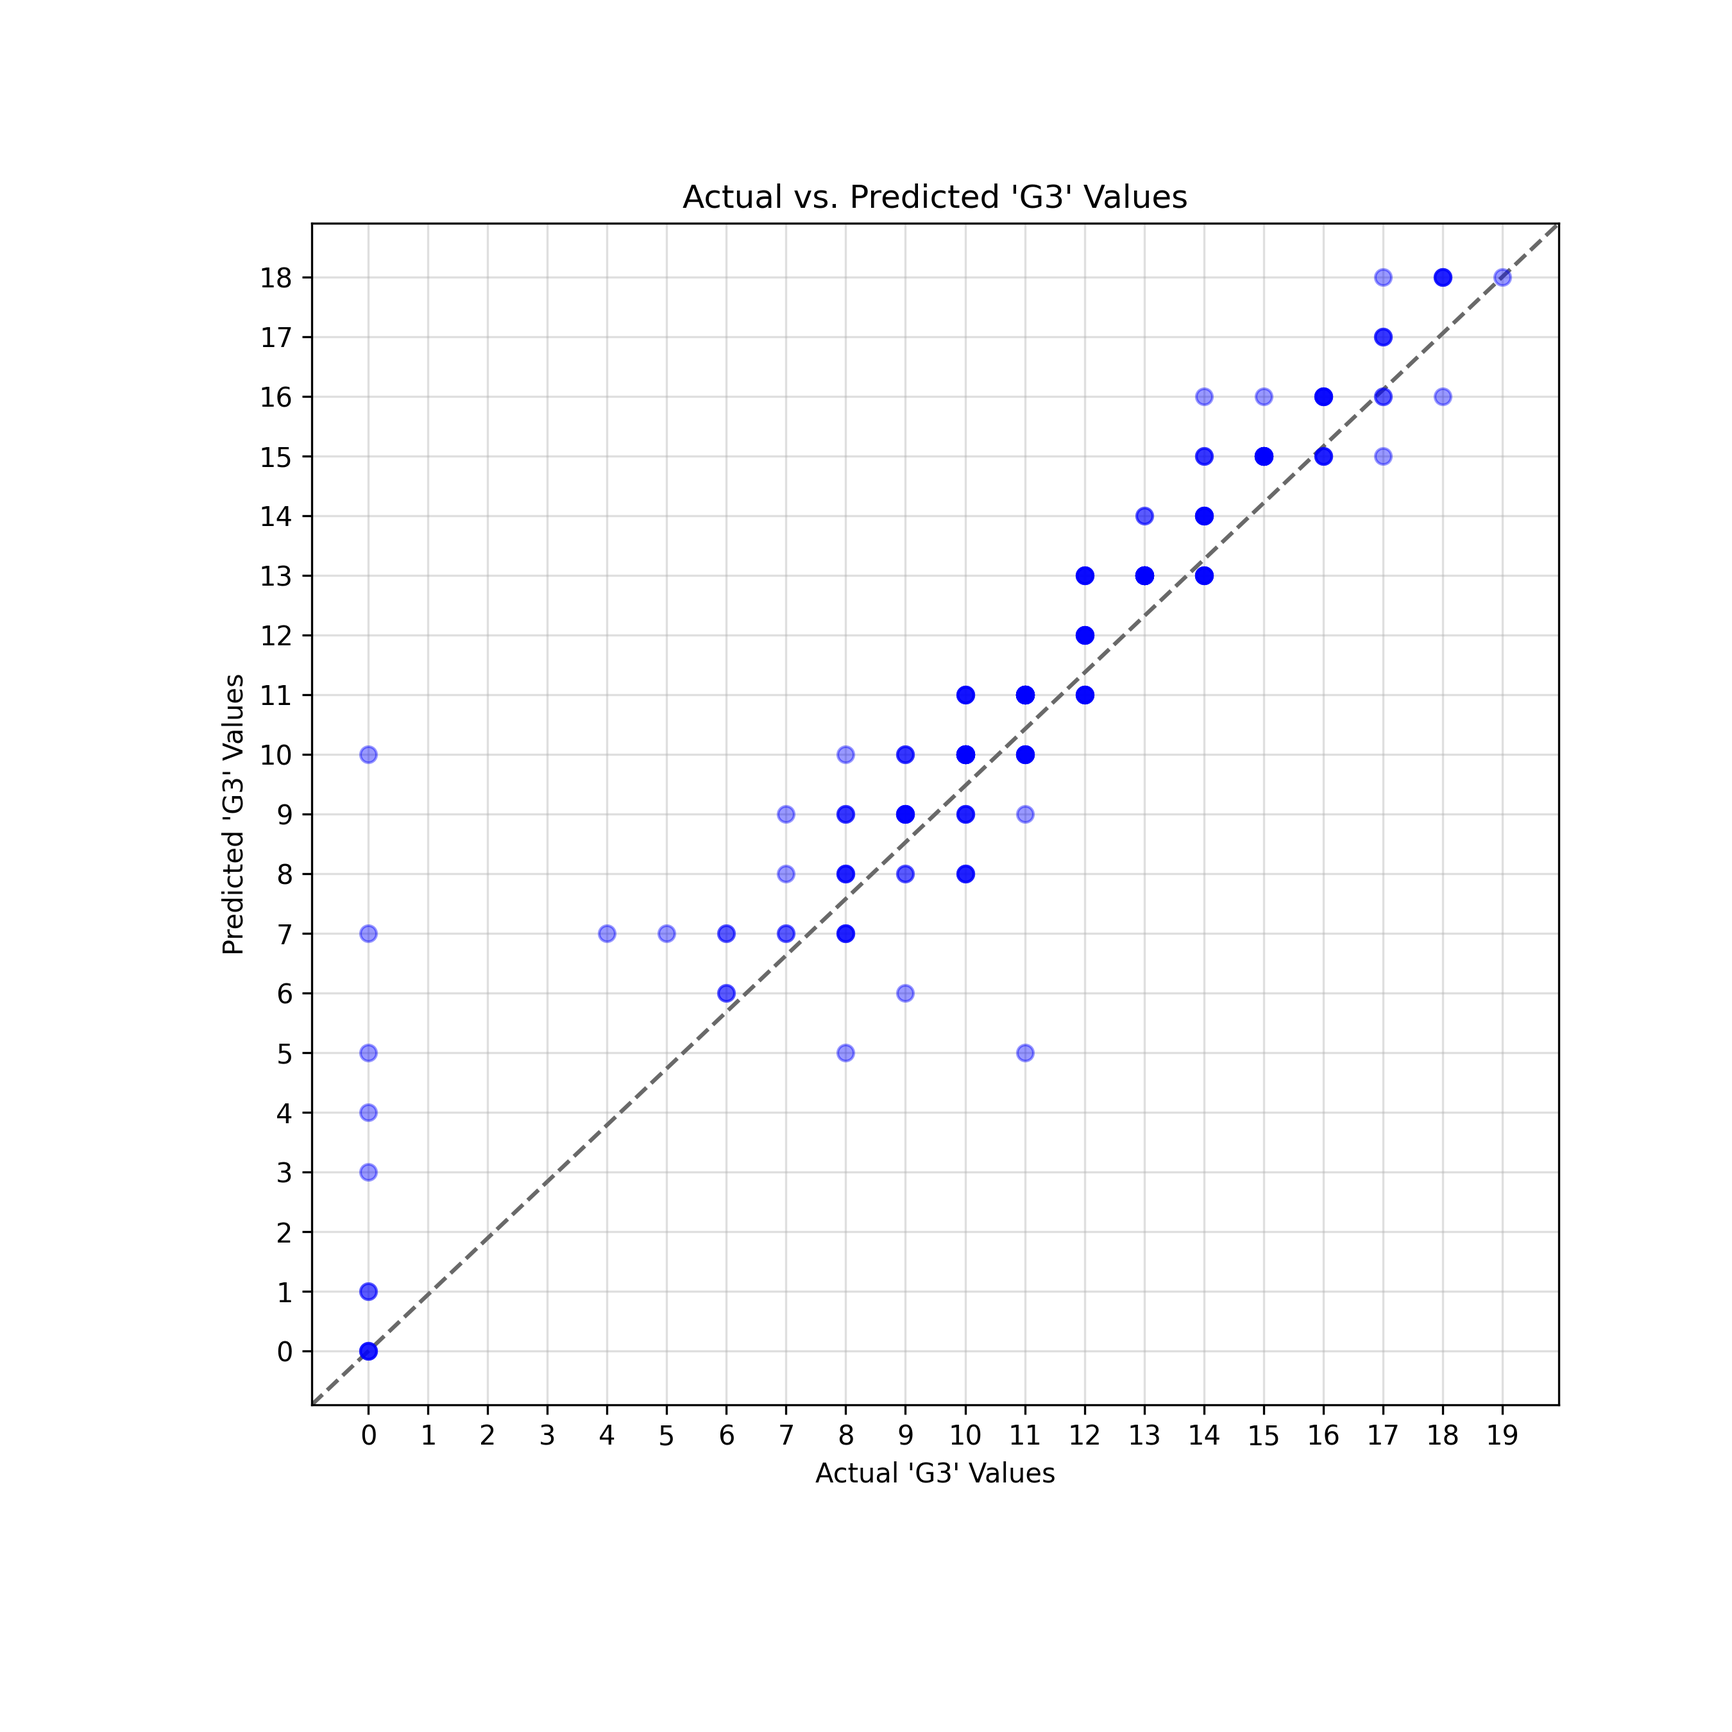
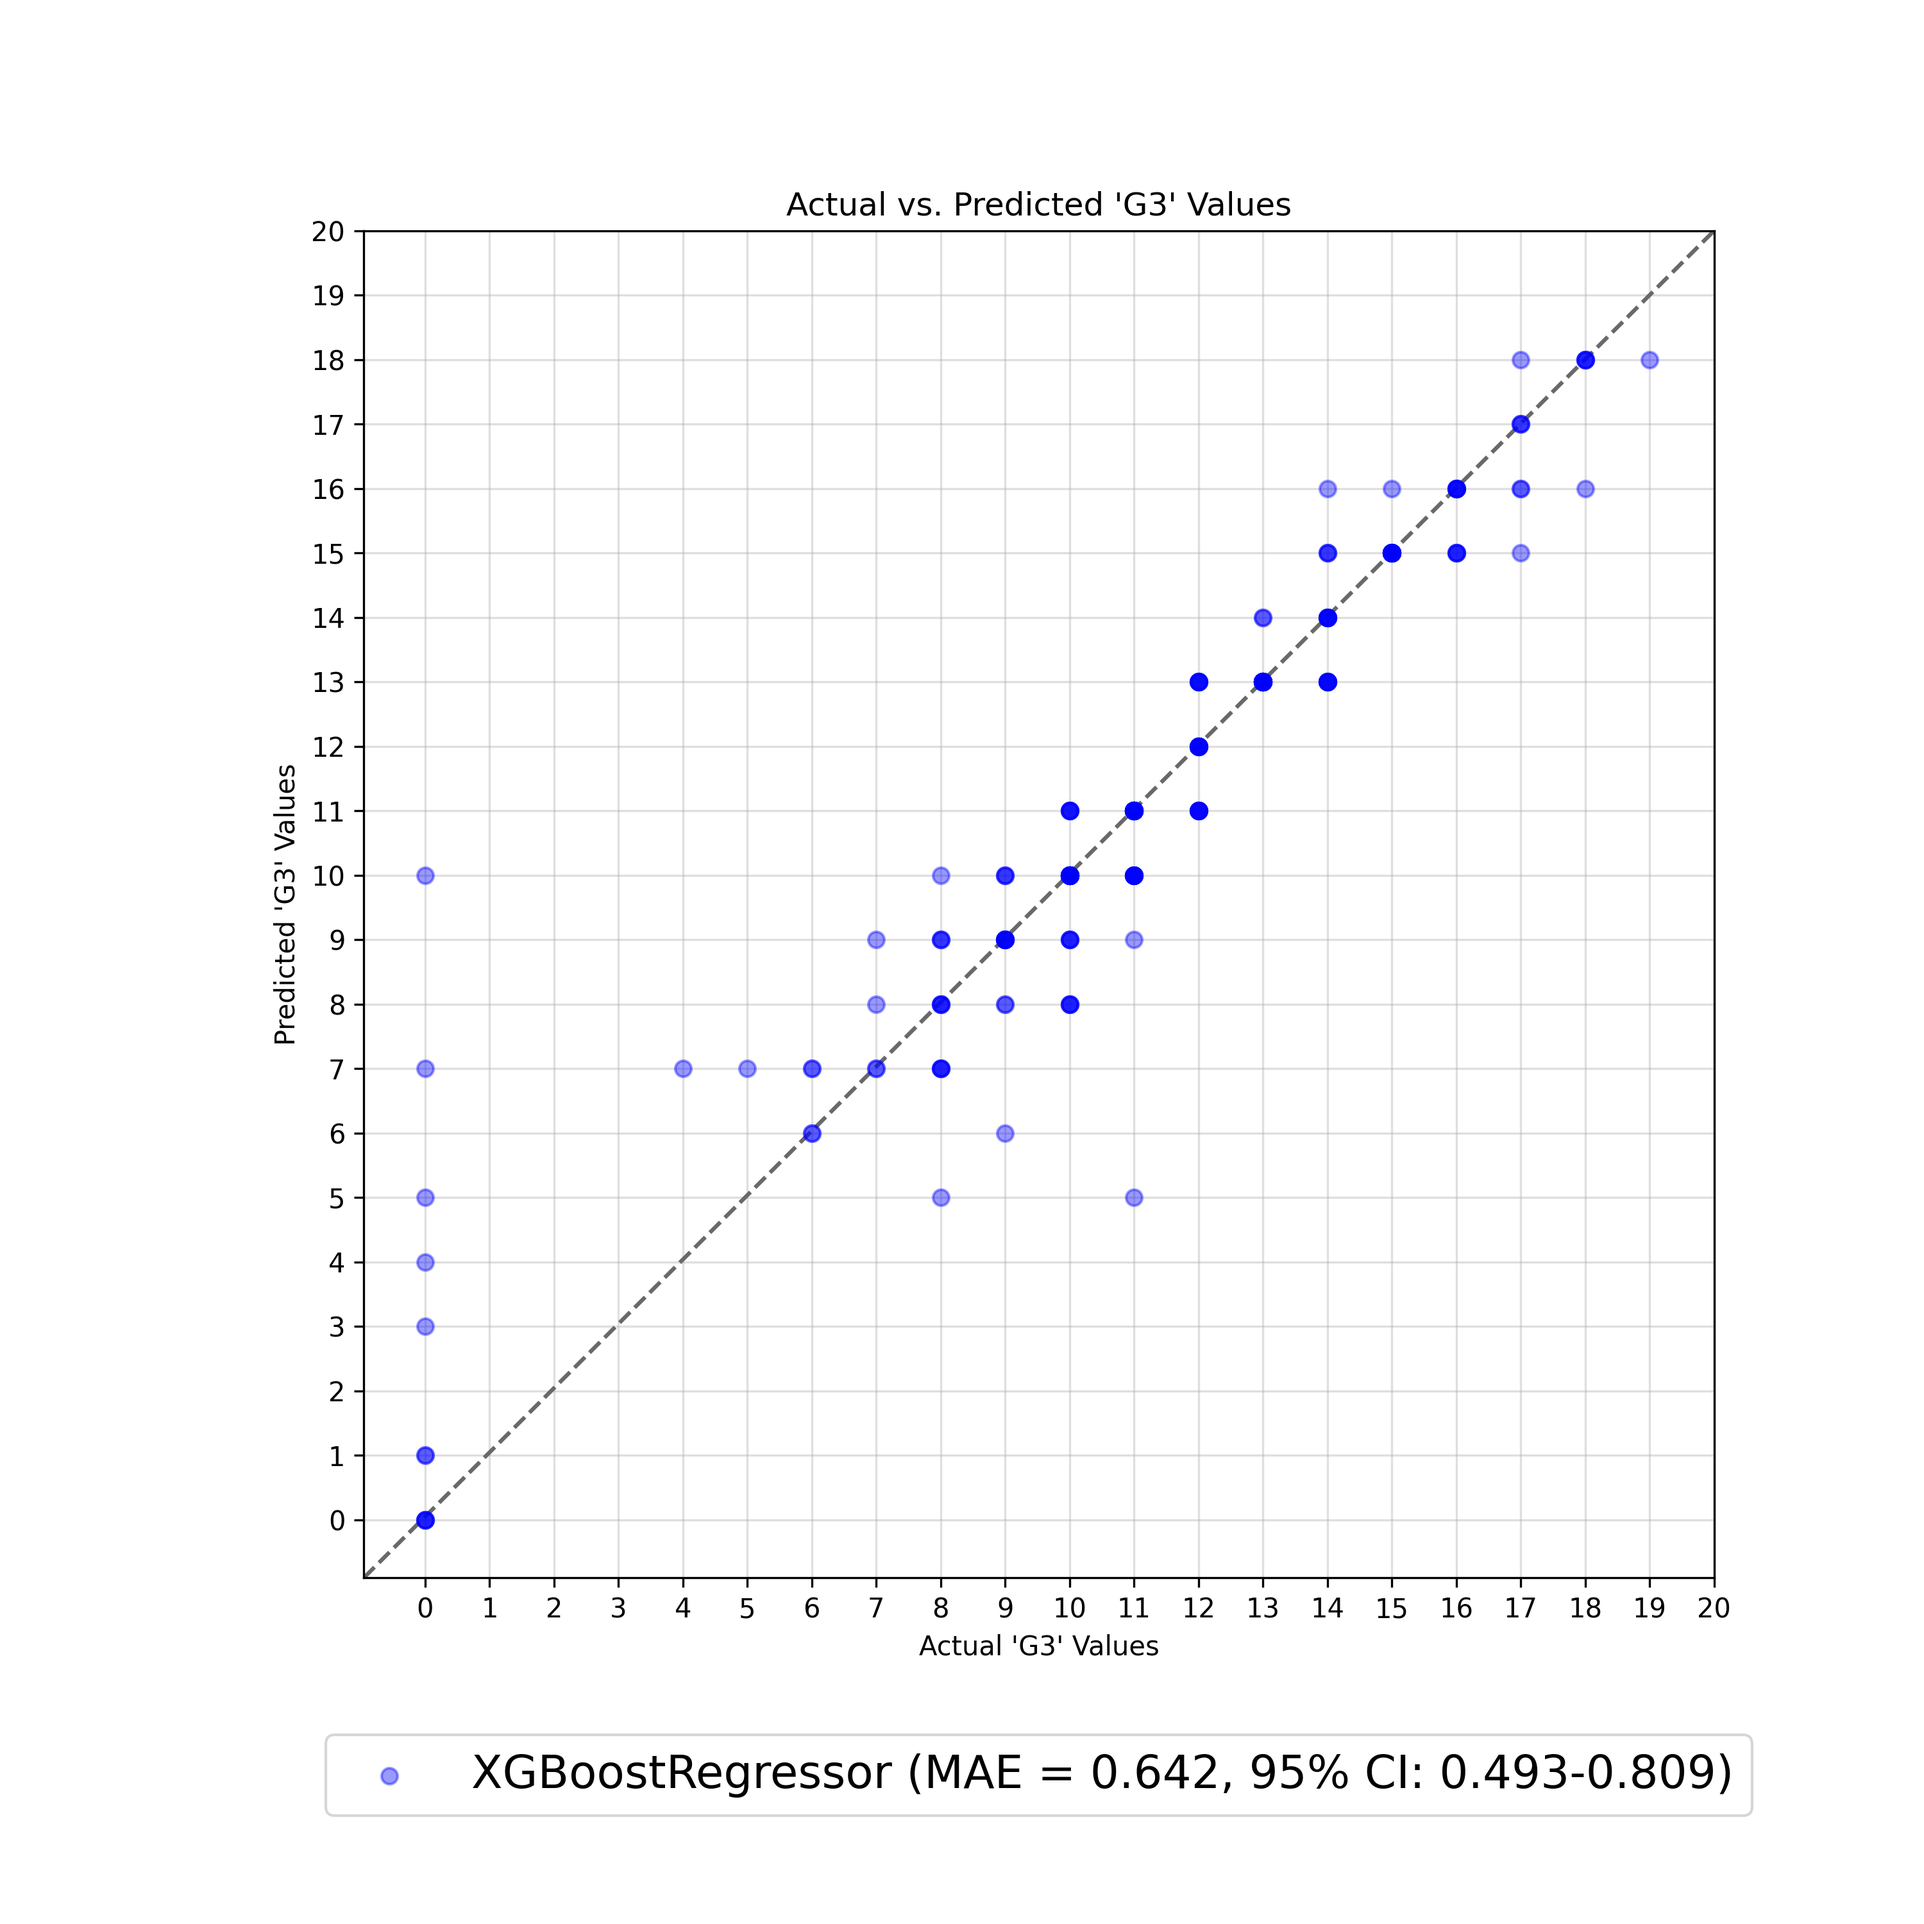
Small adjustments.

Changed region(s): [[0.1244, 0.0933, 0.9022, 0.8711], [0.56, 0.9022, 0.9022, 0.9333], [0.2489, 0.9022, 0.5289, 0.9333]]

diff --git a/main.py b/main.py
@@ -23,28 +23,28 @@ def load_data():
     return students_df
 
 
-def plot_g3_distribution(segment_to_bins=False):
-    students_df = load_data()
+def plot_g3_distribution(data, segment_to_bins=False):
+    if isinstance(data, pd.DataFrame):
+        data = data['G3']
     if segment_to_bins:
-        data = pd.cut(students_df['G3'], bins=[-1, 1, 5, 6, 7, 8, 9, 10, 11, 12, 13, 14, 15, 16, 17, 18, 20], labels=False)
+        data = pd.cut(data, bins=[-1, 1, 5, 6, 7, 8, 9, 10, 11, 12, 13, 14, 15, 16, 17, 18, 20], labels=False)
         number_of_bins = 16 + 1
         color = 'g'
     else:
-        data = students_df['G3']
         number_of_bins = 21 + 1
         color = 'y'
 
     # Plot histogram
     plt.figure()
     bins = np.arange(number_of_bins) - 0.5
-    plt.hist(data, bins, density=True, alpha=0.6, color=color, edgecolor='black')
+    plt.hist(data, bins, alpha=0.6, color=color, edgecolor='black')
     plt.xticks(range(number_of_bins - 1))
     plt.xlim([-1, number_of_bins - 1])
 
     # Plot formatting
     plt.title(f"Distribution of Final Grades (G3){' Bins' if segment_to_bins else ''}")
     plt.xlabel(f"Final Grade (G3){' Bin' if segment_to_bins else ''}")
-    plt.ylabel('Density')
+    plt.ylabel('Count')
 
     # Save the histogram image
     histogram_image_path = os.path.abspath(f"data\\g3{'_bins' if segment_to_bins else ''}_distribution_histogram.png")
@@ -283,11 +283,13 @@ def method_main():
     }
     # optimal_rounding_threshold = find_optimal_rounding_threshold(features_to_remove=features_to_remove, params=optimal_params)
     optimal_rounding_threshold = 0.5
+    # optimal_rounding_threshold = 0.62
     results_df = run_xgboost(features_to_remove=features_to_remove, params=optimal_params, rounding_threshold=optimal_rounding_threshold)
-    results_df.to_csv('results.csv')
+    # results_df = run_xgboost(features_to_remove=features_to_remove)
+    # results_df.to_csv('results.csv')
     evaluation = Evaluation(results_df)
     print(evaluation.get_mae_and_ci_string())
-    evaluation.plot_maes_histogram()
+    # evaluation.plot_maes_histogram()
     evaluation.plot_actual_vs_predicted()
 
 

diff --git a/evaluation.py b/evaluation.py
@@ -96,18 +96,18 @@ class Evaluation:
         plt.close(fig_hist)
 
     def plot_actual_vs_predicted(self):
-        fig, ax = plt.subplots(figsize=(9, 9))
-        ax.scatter(self.results_df['y_test'], self.results_df['y_pred'], color='b', alpha=0.4, zorder=5)
+        fig, ax = plt.subplots(figsize=(10, 10))
+        ax.scatter(self.results_df['y_test'], self.results_df['y_pred'], color='b', alpha=0.4, zorder=5, label=f"XGBoostRegressor (MAE = {self.mean_mae:.3f}, {(1 - self.alpha) * 100:g}% CI: {self.lower_bound:.3f}-{self.upper_bound:.3f})")
         ax.set_aspect('equal')
         ax.plot([0, 1], [0, 1], transform=ax.transAxes, ls="--", c="dimgrey")
-        plt.xticks(range(0, 20, 1))
-        plt.yticks(range(0, 19, 1))
+        plt.xticks(range(0, 21, 1))
+        plt.yticks(range(0, 21, 1))
         ax.set_title("Actual vs. Predicted 'G3' Values")
         ax.set_xlabel("Actual 'G3' Values")
         ax.set_ylabel("Predicted 'G3' Values")
         fig.subplots_adjust(bottom=0.18, left=0.18)
         plt.grid(alpha=0.4)
-        # Save the scatter plot image
+        ax.legend(loc='upper center', bbox_to_anchor=(0.5, -0.10), fontsize=17)
         scatter_plot_image_name = f"actual_vs_predicted.png"
         plt.savefig(scatter_plot_image_name, dpi=300)
         plt.close(fig)
